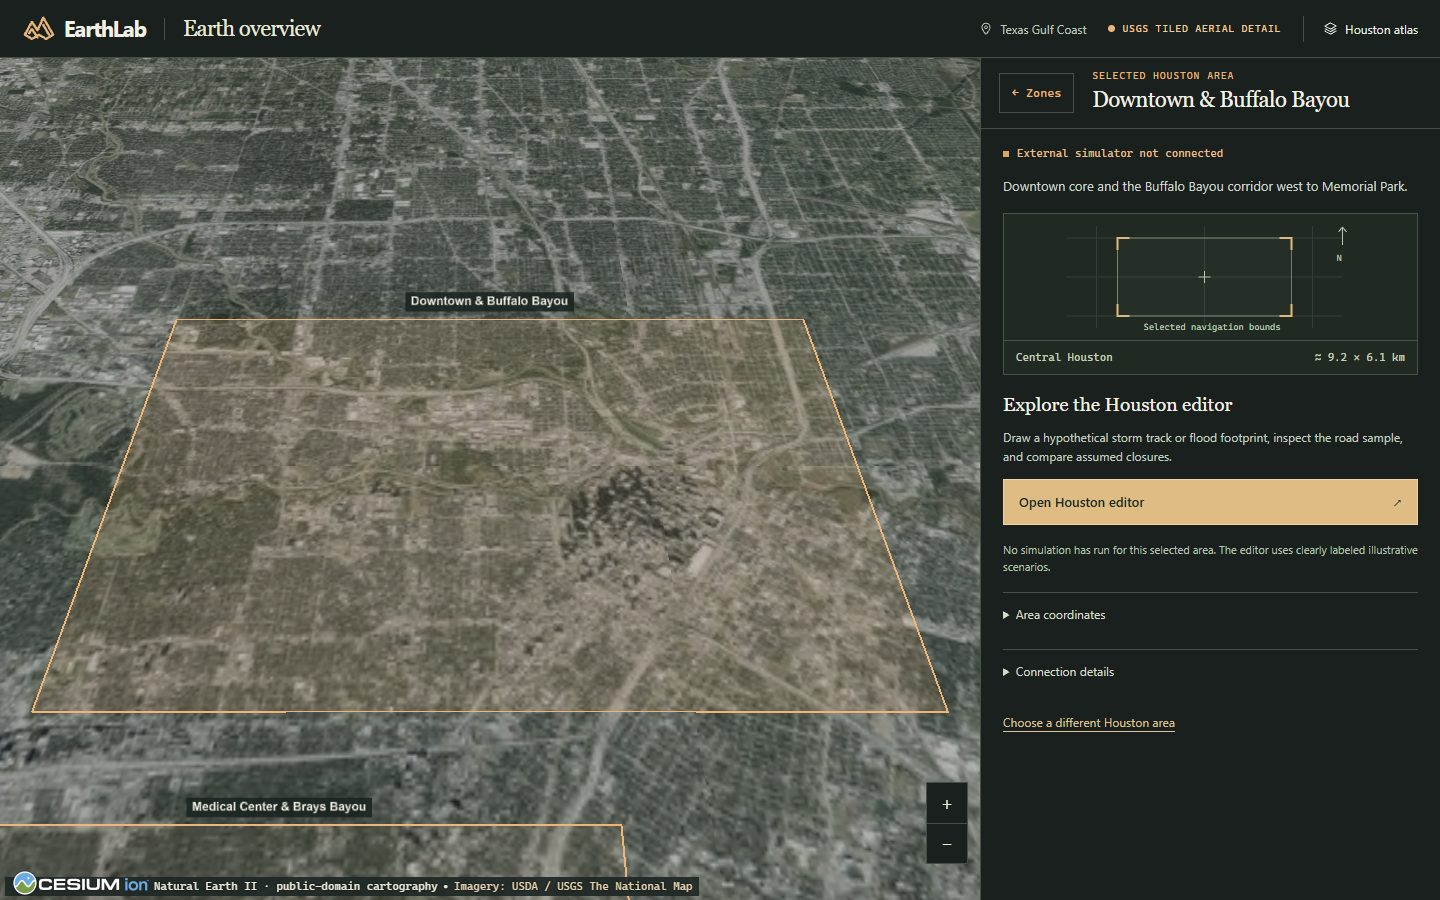
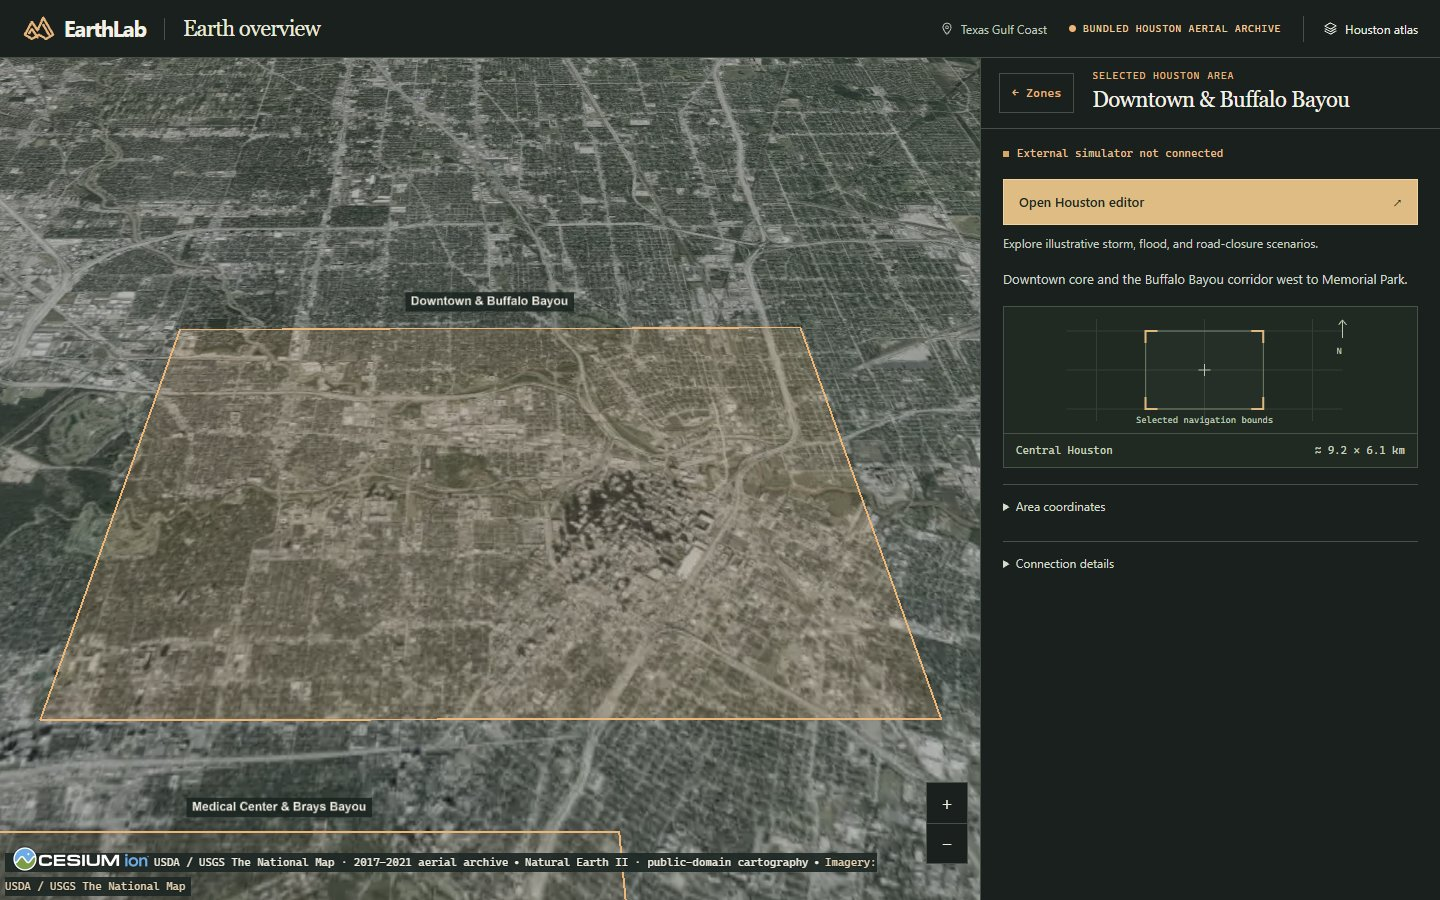
Use the archive georeferencing for the index and capture the offline zone

diff --git a/apps/web/src/features/earth/RegionInset.tsx b/apps/web/src/features/earth/RegionInset.tsx
@@ -1,3 +1,4 @@
+import { HOUSTON_ARCHIVE_LAYERS } from "./imagery";
 import { regionBBox, type Region } from "./zones";
 
 /** WGS84 index diagram. Letter keys correspond to the study-zone list below. */
@@ -14,7 +15,7 @@ export function RegionInset({
   const scale = Math.min(252 / ((east - west) * lonScale), 132 / (north - south));
   const x = (lon: number) => 160 + (lon - (east + west) / 2) * scale * lonScale;
   const y = (lat: number) => 78 - (lat - midLat) * scale;
-  const bounds = [-95.9, 29.249921875, -94.7, 30.200078125] as const;
+  const { url, bounds } = HOUSTON_ARCHIVE_LAYERS[0];
   return (
     <figure className="region-inset">
       <svg
@@ -23,7 +24,7 @@ export function RegionInset({
         aria-label="Houston zone index. Lettered boxes locate the study areas listed below."
       >
         <image
-          href="/map/houston-usgs.webp"
+          href={url}
           x={x(bounds[0])}
           y={y(bounds[3])}
           width={x(bounds[2]) - x(bounds[0])}
